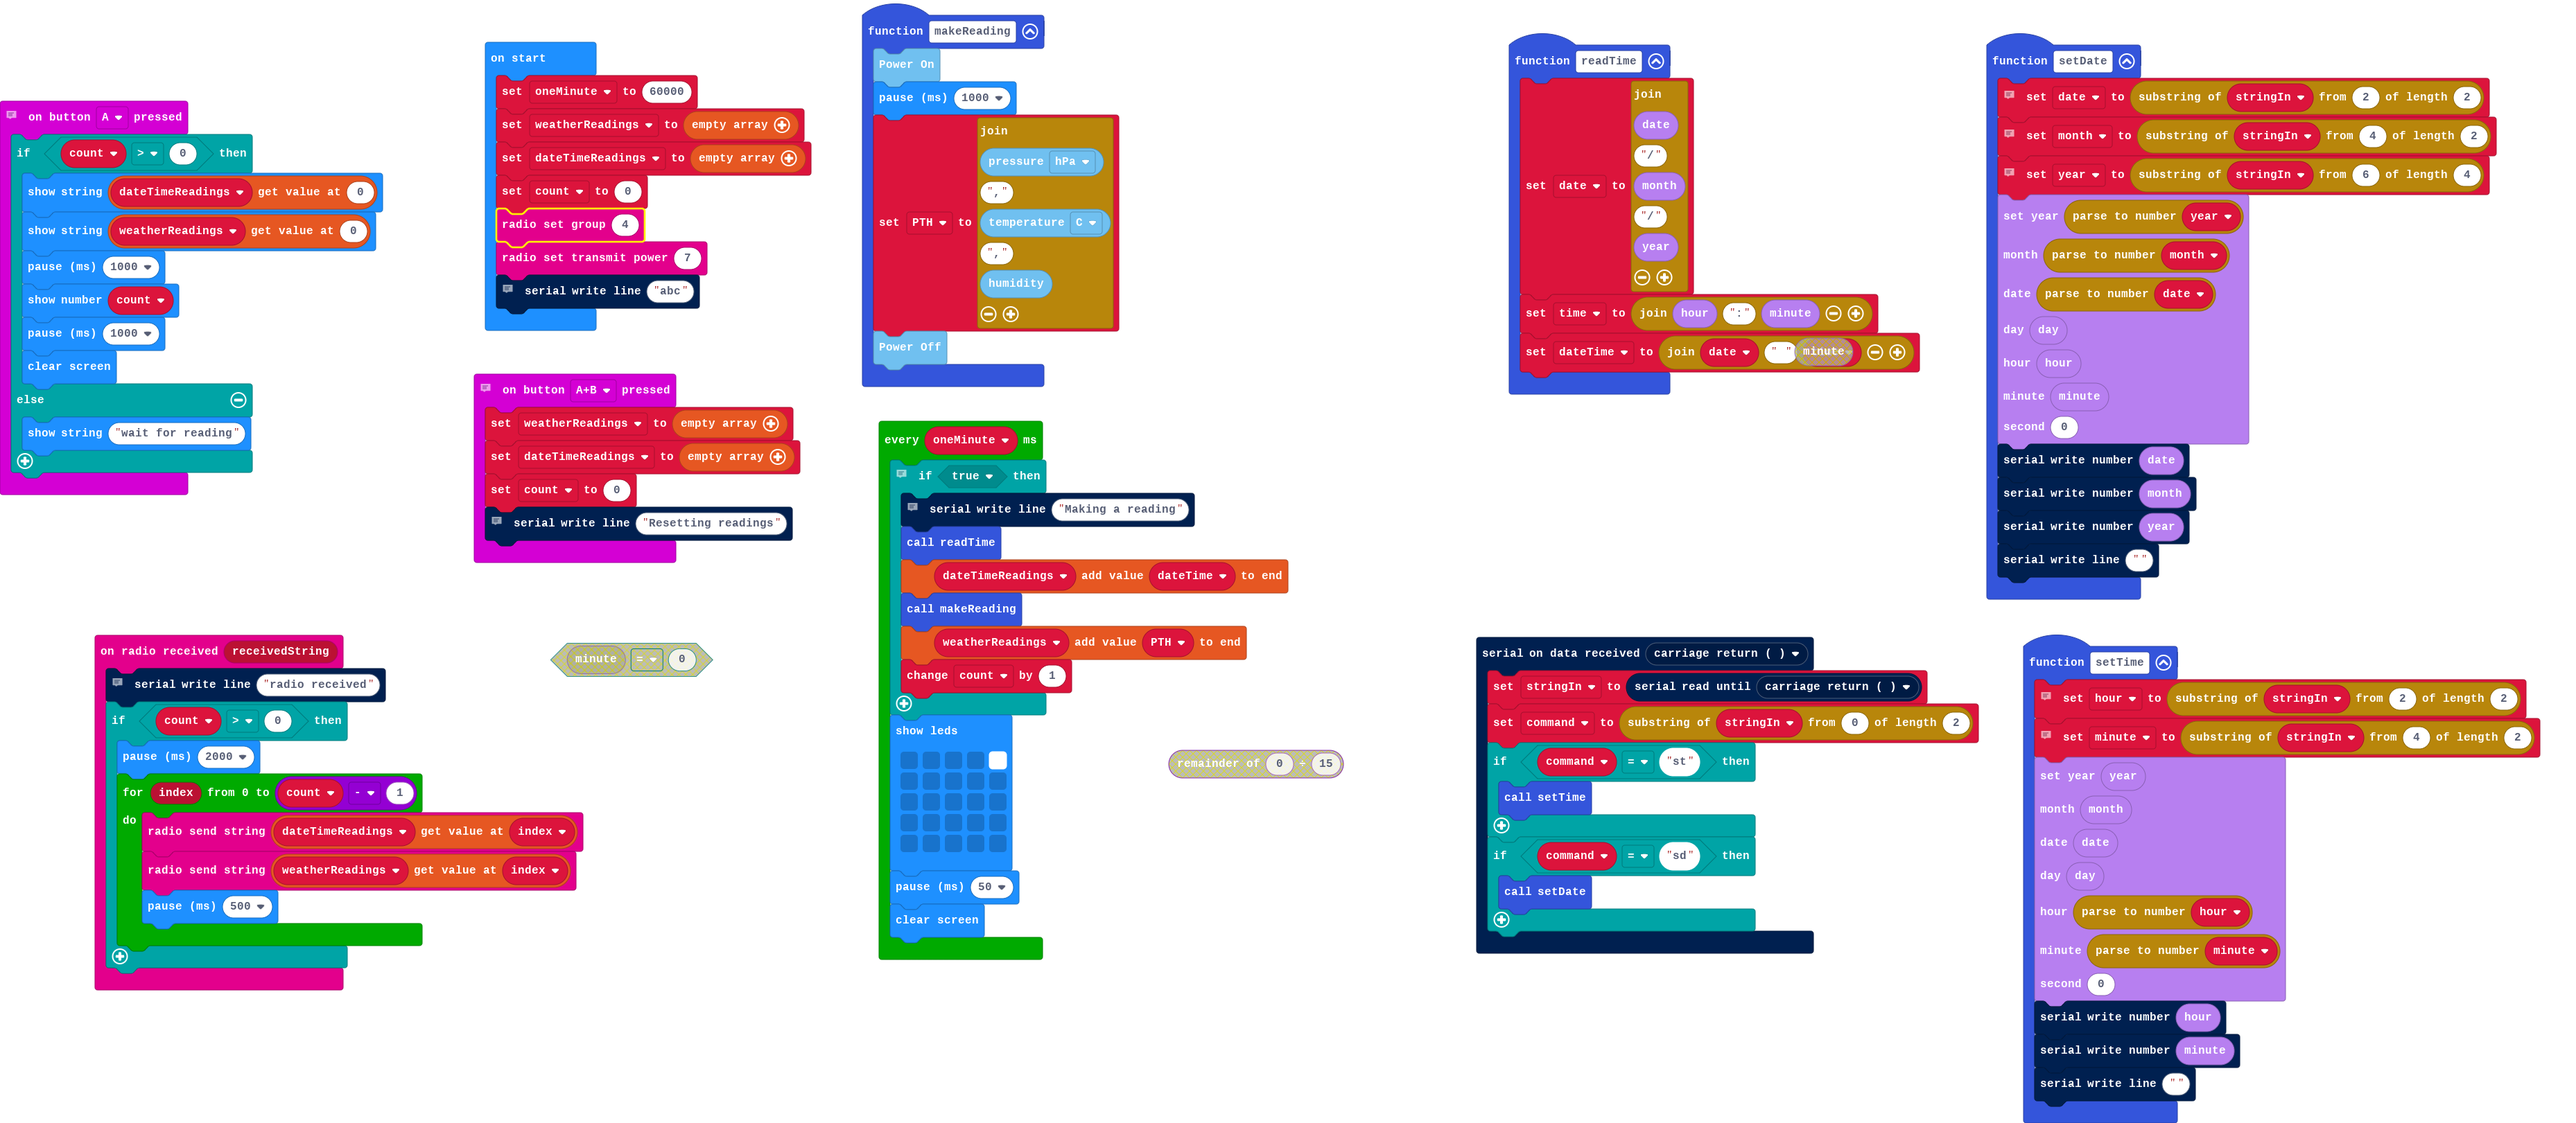
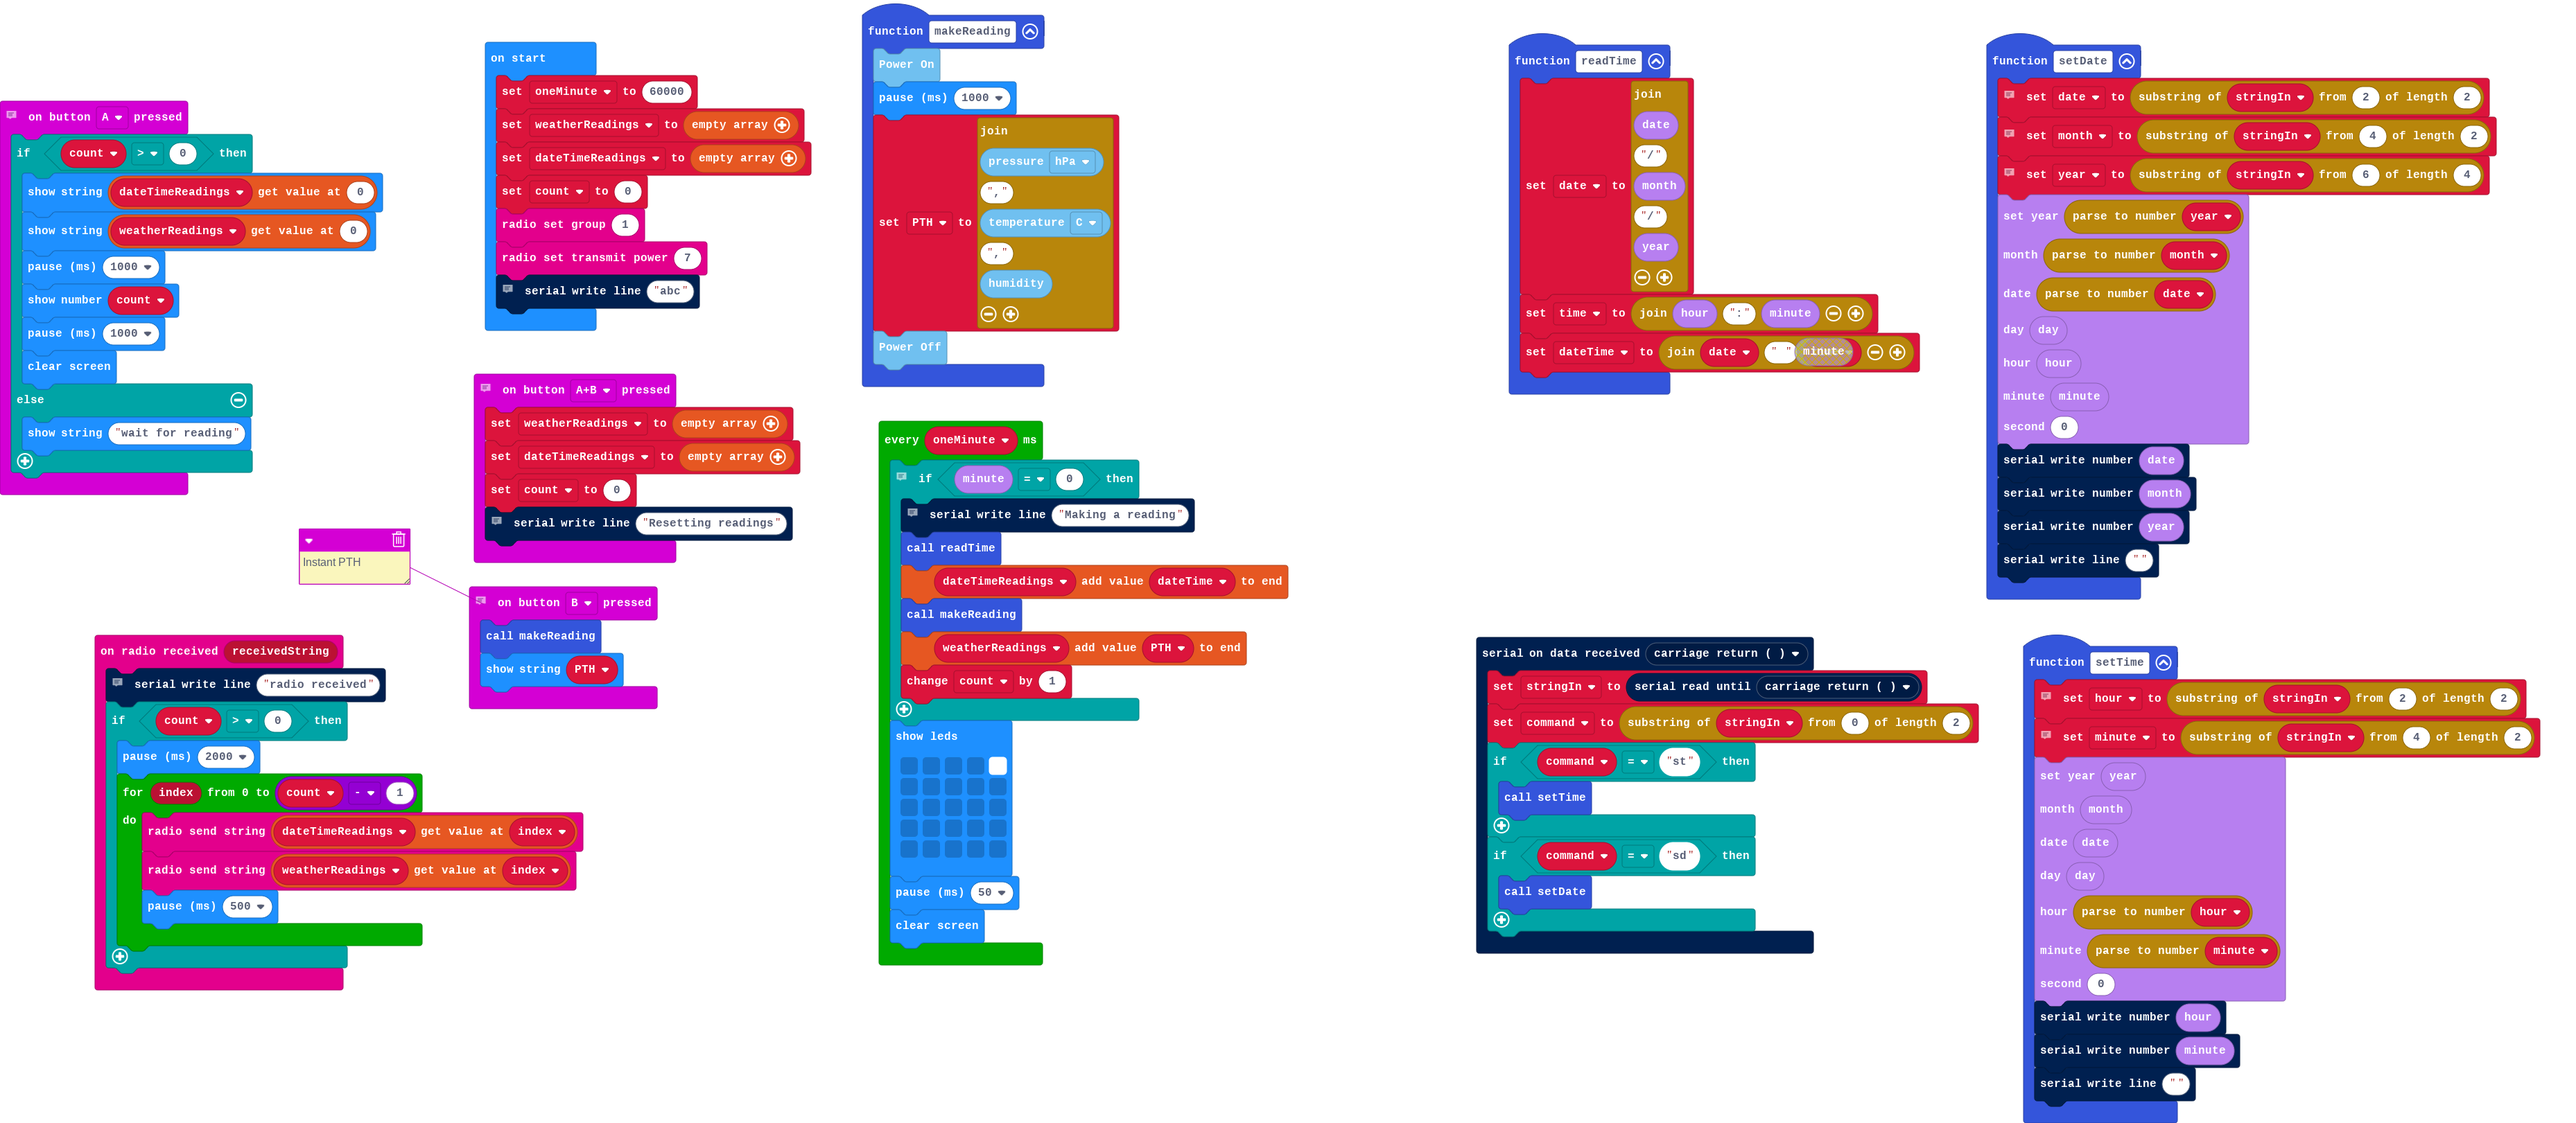
Added button B

Changed region(s): [[0.3434, 0.401, 0.5307, 0.8637], [0.0936, 0.4627, 0.2809, 0.6477], [0.1873, 0.1851, 0.2497, 0.2159]]

diff --git a/main.ts b/main.ts
@@ -81,6 +81,11 @@ radio.onReceivedString(function (receivedString) {
         }
     }
 })
+// Instant PTH
+input.onButtonPressed(Button.B, function () {
+    makeReading()
+    basic.showString(PTH)
+})
 serial.onDataReceived(serial.delimiters(Delimiters.CarriageReturn), function () {
     stringIn = serial.readUntil(serial.delimiters(Delimiters.CarriageReturn))
     command = stringIn.substr(0, 2)
@@ -108,13 +113,13 @@ let oneMinute = 60000
 weatherReadings = []
 dateTimeReadings = []
 count = 0
-radio.setGroup(4)
+radio.setGroup(1)
 radio.setTransmitPower(7)
 // Debug - start serial
 serial.writeLine("abc")
 loops.everyInterval(oneMinute, function () {
     // Take readings once per hour
-    if (true) {
+    if (DS3231.minute() == 0) {
         // Debug - make a reading
         serial.writeLine("Making a reading")
         readTime()
